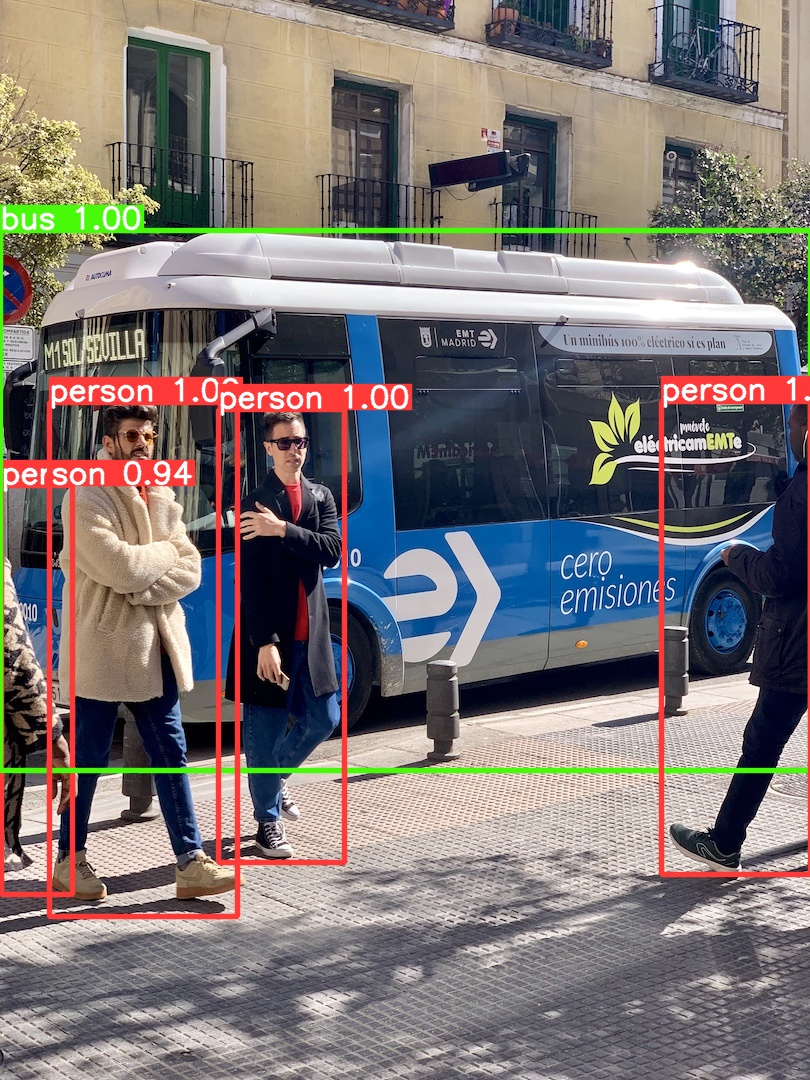
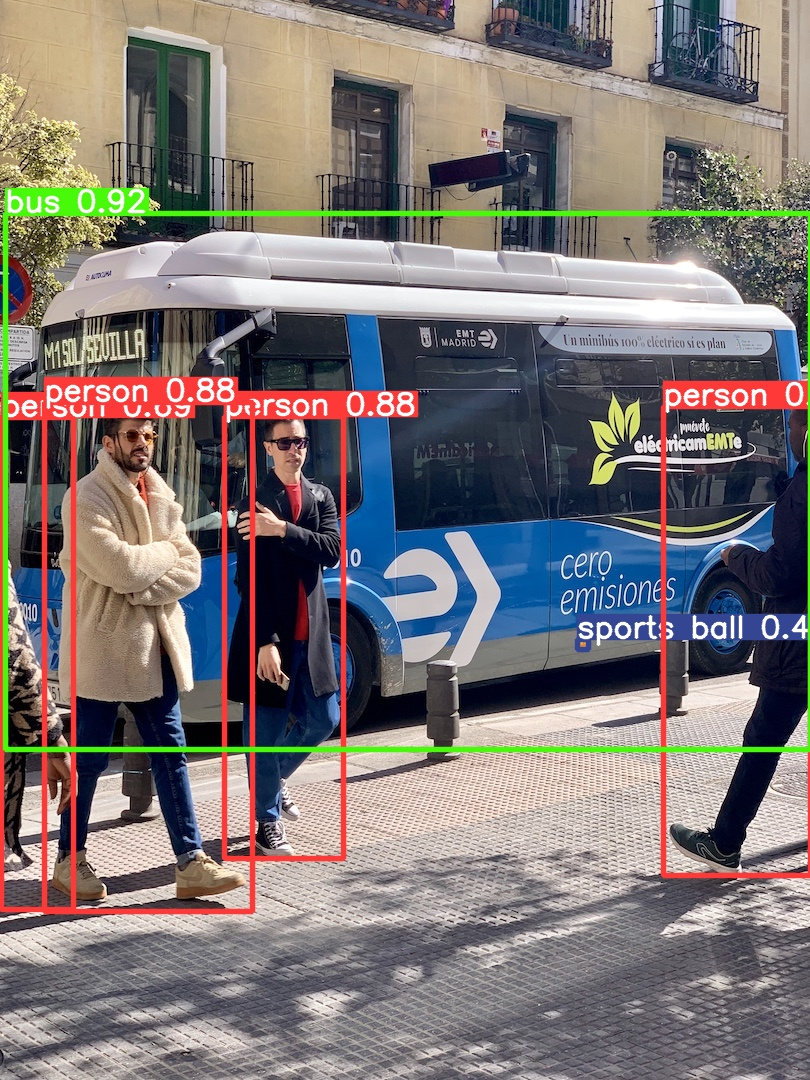
docs(readme): update <Predict>

Changed region(s): [[0.0, 0.1528, 1.0, 0.8556]]

diff --git a/README.md b/README.md
@@ -151,7 +151,7 @@ python3 detect.py --weights runs/yolov3_voc.pt --source ./assets/voc2007-test/
 <p align="left"><img src="assets/results/voc/000237.jpg" height="240"\>  <img src="assets/results/voc/000386.jpg" height="240"\></p>
 
 ```shell
-python3 detect.py --weights runs/yolov3_coco.pt --source ./assets/coco/ --conf-thres 0.7
+python3 detect.py --weights runs/yolov3_coco.pt --source ./assets/coco/
 ```
 
 <p align="left"><img src="assets/results/coco/bus.jpg" height="240"\>  <img src="assets/results/coco/zidane.jpg" height="240"\></p>

diff --git a/README.zh-CN.md b/README.zh-CN.md
@@ -150,7 +150,7 @@ python3 detect.py --weights runs/yolov3_voc.pt --source ./assets/voc2007-test/
 <p align="left"><img src="assets/results/voc/000237.jpg" height="240"\>  <img src="assets/results/voc/000386.jpg" height="240"\></p>
 
 ```shell
-python3 detect.py --weights runs/yolov3_coco.pt --source ./assets/coco/ --conf-thres 0.7
+python3 detect.py --weights runs/yolov3_coco.pt --source ./assets/coco/
 ```
 
 <p align="left"><img src="assets/results/coco/bus.jpg" height="240"\>  <img src="assets/results/coco/zidane.jpg" height="240"\></p>
